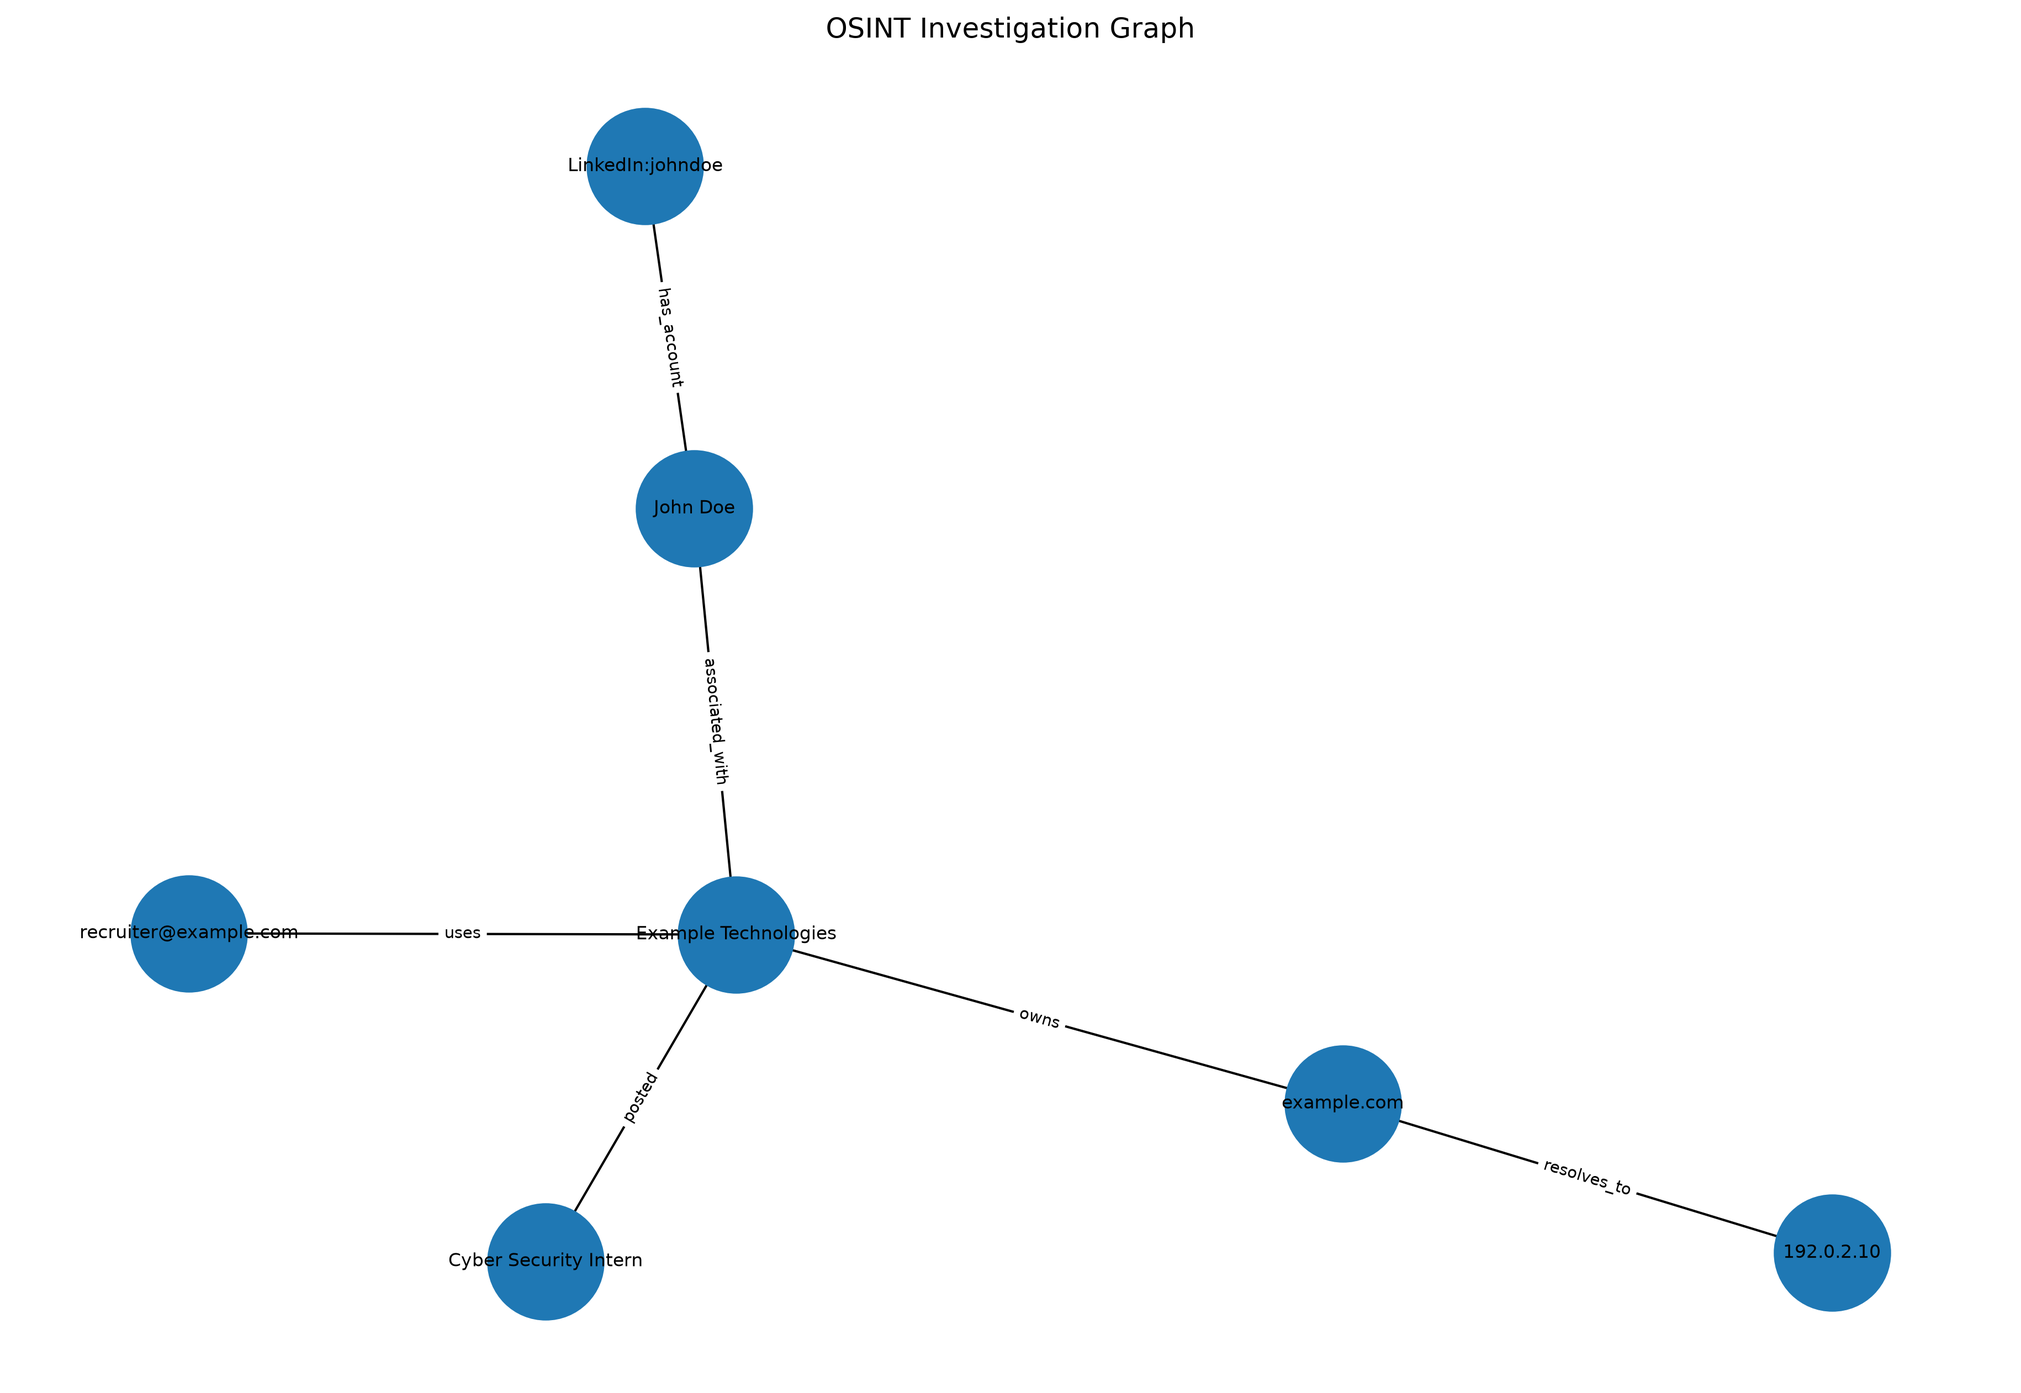
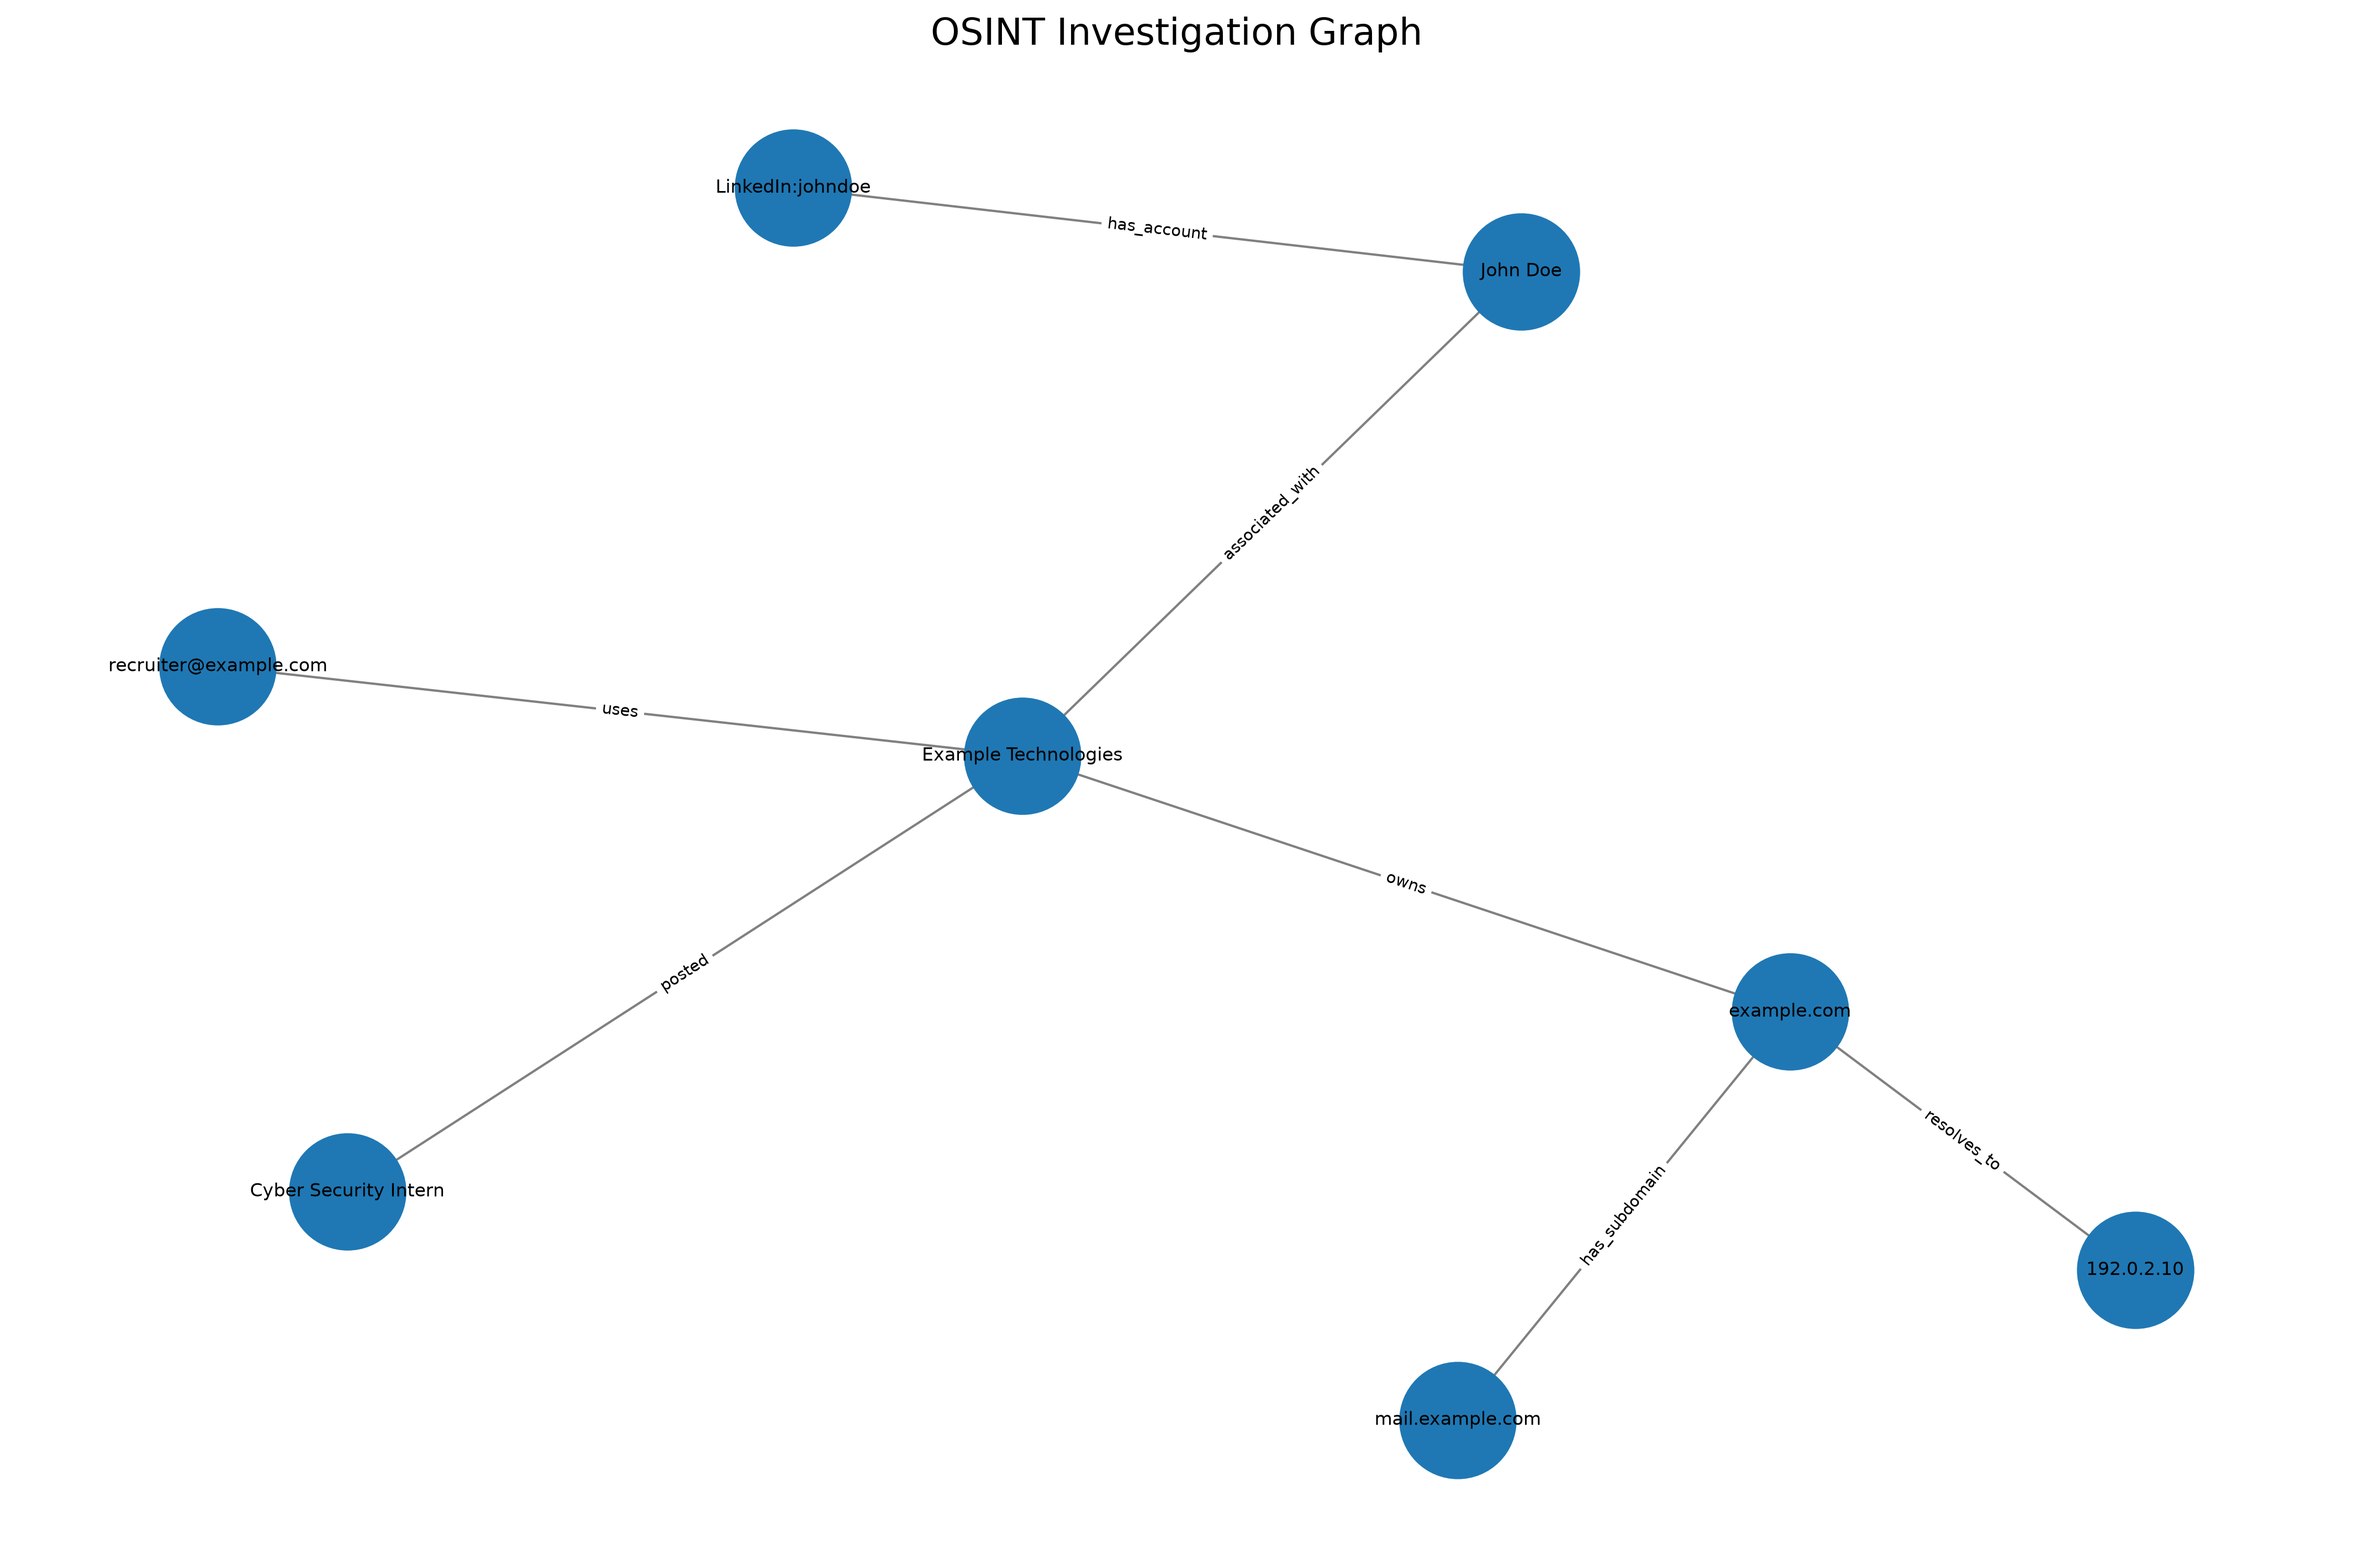
Improve dynamic OSINT investigation graph

diff --git a/graph/investigation_graph.py b/graph/investigation_graph.py
@@ -4,99 +4,165 @@ import matplotlib.pyplot as plt
 
 
 def load_data():
-    with open("data/sample_data.json", "r") as file:
+    with open("data/sample_data.json", "r", encoding="utf-8") as file:
         return json.load(file)
 
 
 def build_graph(data):
     graph = nx.Graph()
 
+    # -------------------------
+    # Company
+    # -------------------------
     company = data["company"]["name"]
+    domain = data["company"]["domain"]
 
     graph.add_node(company, type="company")
 
+    # -------------------------
     # Domain
-    for domain in data["domains"]:
-        graph.add_node(domain["domain"], type="domain")
-        graph.add_edge(
-            company,
-            domain["domain"],
-            relationship="owns"
-        )
+    # -------------------------
+    graph.add_node(domain, type="domain")
 
-    # Job posting
+    graph.add_edge(
+        company,
+        domain,
+        relationship="owns"
+    )
+
+    # -------------------------
+    # Job Posting
+    # -------------------------
     job = data["job_posting"]["title"]
-    graph.add_node(job, type="job_posting")
+
+    graph.add_node(
+        job,
+        type="job_posting"
+    )
+
     graph.add_edge(
         company,
         job,
         relationship="posted"
     )
 
-    # Emails
-    for email in data["emails"]:
+    # -------------------------
+    # Email addresses
+    # -------------------------
+    for email in data.get("emails", []):
+
         address = email["email"]
-        graph.add_node(address, type="email")
+
+        graph.add_node(
+            address,
+            type="email"
+        )
+
         graph.add_edge(
             company,
             address,
             relationship="uses"
         )
 
+    # -------------------------
     # People
-    for person in data["people"]:
+    # -------------------------
+    for person in data.get("people", []):
+
         name = person["name"]
-        graph.add_node(name, type="person")
+
+        graph.add_node(
+            name,
+            type="person"
+        )
+
         graph.add_edge(
             company,
             name,
             relationship="associated_with"
         )
 
-    # Social accounts
-    for account in data["social_accounts"]:
-        username = account["username"]
-        platform = account["platform"]
+        # -------------------------
+        # Social accounts
+        # -------------------------
+        for account in data.get("social_accounts", []):
 
-        node = f"{platform}:{username}"
+            username = account["username"]
+            platform = account["platform"]
 
-        graph.add_node(node, type="social_account")
-        graph.add_edge(
-            name,
-            node,
-            relationship="has_account"
-        )
+            social_node = f"{platform}:{username}"
 
+            graph.add_node(
+                social_node,
+                type="social_account"
+            )
+
+            graph.add_edge(
+                name,
+                social_node,
+                relationship="has_account"
+            )
+
+    # -------------------------
     # IP addresses
-    for ip in data["ips"]:
+    # -------------------------
+    for ip in data.get("ips", []):
+
         address = ip["ip"]
 
-        graph.add_node(address, type="ip")
+        graph.add_node(
+            address,
+            type="ip"
+        )
+
         graph.add_edge(
-            "example.com",
+            domain,
             address,
             relationship="resolves_to"
+        )
+
+    # -------------------------
+    # Subdomains
+    # -------------------------
+    for subdomain in data.get("subdomains", []):
+
+        subdomain_name = subdomain["subdomain"]
+
+        graph.add_node(
+            subdomain_name,
+            type="subdomain"
+        )
+
+        graph.add_edge(
+            domain,
+            subdomain_name,
+            relationship="has_subdomain"
         )
 
     return graph
 
 
 def visualize_graph(graph):
-    plt.figure(figsize=(12, 8))
+
+    plt.figure(figsize=(14, 9))
 
     positions = nx.spring_layout(
         graph,
-        seed=42
+        seed=42,
+        k=1.5
     )
 
+    # Draw nodes and edges
     nx.draw(
         graph,
         positions,
         with_labels=True,
         node_size=2500,
-        font_size=8
+        font_size=8,
+        edge_color="gray"
     )
 
+    # Edge relationship labels
     labels = nx.get_edge_attributes(
         graph,
         "relationship"
@@ -109,23 +175,40 @@ def visualize_graph(graph):
         font_size=7
     )
 
-    plt.title("OSINT Investigation Graph")
+    plt.title(
+        "OSINT Investigation Graph",
+        fontsize=16
+    )
 
+    # Save graph
     plt.savefig(
         "output/investigation_graph.png",
         dpi=300,
         bbox_inches="tight"
     )
 
+    print("\nGraph saved to:")
+    print("output/investigation_graph.png")
+
+    print("\nNodes:", graph.number_of_nodes())
+    print("Edges:", graph.number_of_edges())
+
+    # Display graph
     plt.show()
 
 
-if __name__ == "__main__":
+def main():
+
+    print("=" * 50)
+    print("OSINT INVESTIGATION GRAPH")
+    print("=" * 50)
+
     data = load_data()
 
     graph = build_graph(data)
 
-    print("Nodes:", graph.number_of_nodes())
-    print("Edges:", graph.number_of_edges())
-
     visualize_graph(graph)
+
+
+if __name__ == "__main__":
+    main()

diff --git a/ai/ai_analyzer.py b/ai/ai_analyzer.py
@@ -1,0 +1,82 @@
+import json
+from pathlib import Path
+
+
+def analyze_findings(data):
+    """
+    Analyze OSINT findings and identify potential inconsistencies.
+    This does not determine that an organization is fraudulent.
+    """
+
+    findings = {
+        "recent_domain": False,
+        "email_mismatch": False,
+        "address_mismatch": False,
+        "unverified_recruiter": False,
+        "suspicious_social": False,
+        "infrastructure_mismatch": False
+    }
+
+    observations = []
+
+    # Domain analysis
+    for domain in data.get("domains", []):
+        text = domain.get("finding", "").lower()
+
+        if "recent" in text or "new" in text:
+            findings["recent_domain"] = True
+            observations.append(
+                "The domain appears to have been registered recently."
+            )
+
+    # Email analysis
+    company_domain = data.get("company", {}).get("domain", "")
+
+    for email in data.get("emails", []):
+        address = email.get("email", "")
+
+        if "@" in address and company_domain:
+            email_domain = address.split("@")[-1]
+
+            if email_domain.lower() != company_domain.lower():
+                findings["email_mismatch"] = True
+                observations.append(
+                    "A contact email does not match the organization's domain."
+                )
+
+    # Recruiter verification
+    if data.get("people"):
+        for person in data["people"]:
+            if not person.get("verified", False):
+                findings["unverified_recruiter"] = True
+                observations.append(
+                    f"Public verification of {person.get('name', 'the recruiter')} "
+                    "is incomplete."
+                )
+
+    return findings, observations
+
+
+def main():
+
+    data_path = Path("data/sample_data.json")
+
+    with open(data_path, "r", encoding="utf-8") as file:
+        data = json.load(file)
+
+    findings, observations = analyze_findings(data)
+
+    print("\nAI-ASSISTED OSINT ANALYSIS")
+    print("=" * 35)
+
+    if observations:
+        for observation in observations:
+            print("-", observation)
+    else:
+        print("No major inconsistencies detected.")
+
+    return findings
+
+
+if __name__ == "__main__":
+    main()

diff --git a/main.py b/main.py
@@ -1,0 +1,52 @@
+import json
+
+from ai.ai_analyzer import analyze_findings
+from ai.risk_scoring import calculate_risk
+
+
+def main():
+
+    print("=" * 50)
+    print("AI-ASSISTED OSINT FINANCIAL CRIME INVESTIGATION")
+    print("=" * 50)
+
+    # Load OSINT data
+    with open("data/sample_data.json", "r", encoding="utf-8") as file:
+        data = json.load(file)
+
+    # Analyze findings
+    findings, observations = analyze_findings(data)
+
+    # Calculate risk
+    risk = calculate_risk(findings)
+
+    print("\nCOMPANY")
+    print("-------")
+    print(data["company"]["name"])
+
+    print("\nAI OBSERVATIONS")
+    print("----------------")
+
+    for observation in observations:
+        print("-", observation)
+
+    print("\nRISK ASSESSMENT")
+    print("---------------")
+    print("Risk Score:", risk["risk_score"])
+    print("Risk Level:", risk["risk_level"])
+
+    print("\nRED FLAGS")
+    print("---------")
+
+    for flag in risk["red_flags"]:
+        print("-", flag)
+
+    print("\nNOTE:")
+    print(
+        "This score is a heuristic investigative indicator "
+        "and is not proof of fraud."
+    )
+
+
+if __name__ == "__main__":
+    main()
